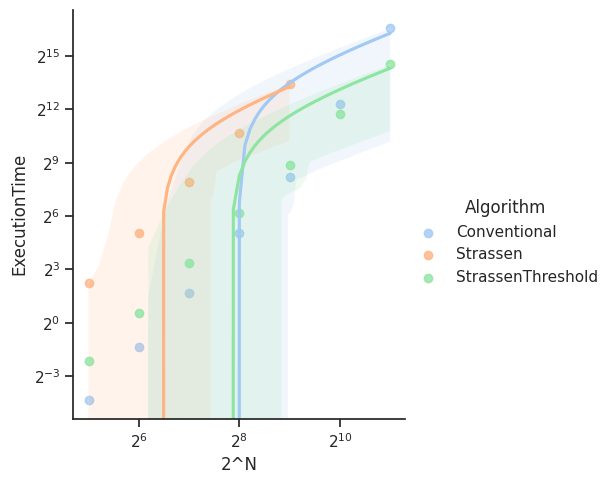
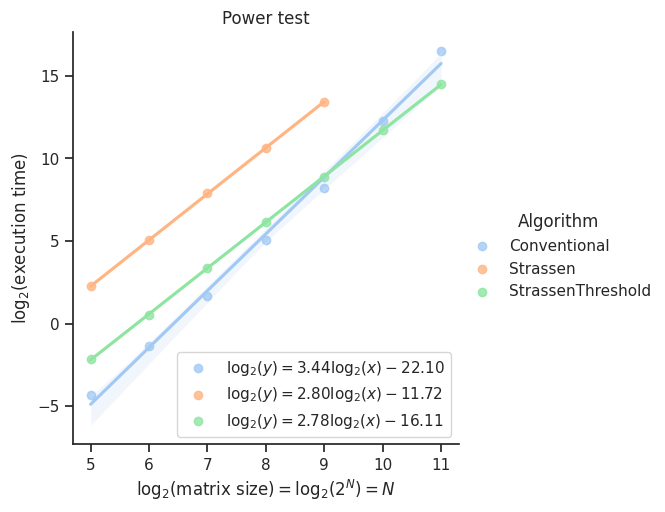
Generate working log-log linear regression plot for power test

diff --git a/TP1/analyze.py b/TP1/analyze.py
@@ -7,7 +7,9 @@ import re
 import statistics
 import subprocess
 import matplotlib.pyplot as plt
+import numpy as np
 import pandas as pd
+from scipy import stats
 import seaborn as sns
 
 DATA_PATH = Path('data')
@@ -83,17 +85,34 @@ def main():
         except FileNotFoundError:
             print(f'Execution time results could not be read (\'{execution_time_results_filename}\'). Please run the script with the \'measure\' mode and try again.')
         
+        # Convert dataframe from wide form to long form for plotting with seaborn's lmplot
         long_df = pd.melt(wide_df.reset_index(), id_vars=['N'], var_name='Algorithm', value_name='ExecutionTime')
         long_df['2^N'] = 2 ** long_df['N']
+        long_df['log2(2^N)'] = np.log2(long_df['2^N'])
+        long_df['log2(ExecutionTime)'] = np.log2(long_df['ExecutionTime'])
 
-        # TODO: Fix log-log regression bug and show equations
+        # Calculate linear regression equation for power test
+        slope_intercepts = {}
+        for algorithm_name in ALGORITHMS:
+            long_df_filtered = long_df[long_df['Algorithm'] == algorithm_name].dropna()
+            slope, intercept, _, _, _ = stats.linregress(x=np.log2(long_df_filtered['2^N']), y=np.log2(long_df_filtered['ExecutionTime']))
+            slope_intercepts[algorithm_name] = (slope, intercept)
+
+        # Plot log-log plot for power test
         plt.figure()
-        sns.lmplot(x='2^N', y='ExecutionTime', hue='Algorithm', data=long_df, truncate=True)
-        plt.xscale('log', base=2)
-        plt.yscale('log', base=2)
+        ax = sns.lmplot(x='log2(2^N)', y='log2(ExecutionTime)', hue='Algorithm', data=long_df)
+        legend_labels = plt.legend().get_texts()
+        for i, algorithm_name in enumerate(ALGORITHMS):
+            slope, intercept = slope_intercepts[algorithm_name]
+            legend_labels[i].set_text(fr'$\log_2(y) = {slope:.2f}\log_2(x){"+" if intercept > 0 else ""}{intercept:.2f}$')
+        ax.set(title='Power test', xlabel=r'$\log_2(\mathrm{matrix\ size}) = \log_2(2^N) = N$', ylabel=r'$\log_2(\mathrm{execution\ time})$')
         plt.savefig(ANALYSIS_OUTPUT_PATH / 'power_test.png', bbox_inches='tight')
     
     # TODO: Power, ratio and constant tests
+
+    # TODO: Other titles and axes on graphs using LaTeX notation
+    # TODO: Make plot size larger
+    # TODO: Translate plots in French
 
 
 def measure_execution_times(algorithms, trial_count=1, extra_args=[]):
